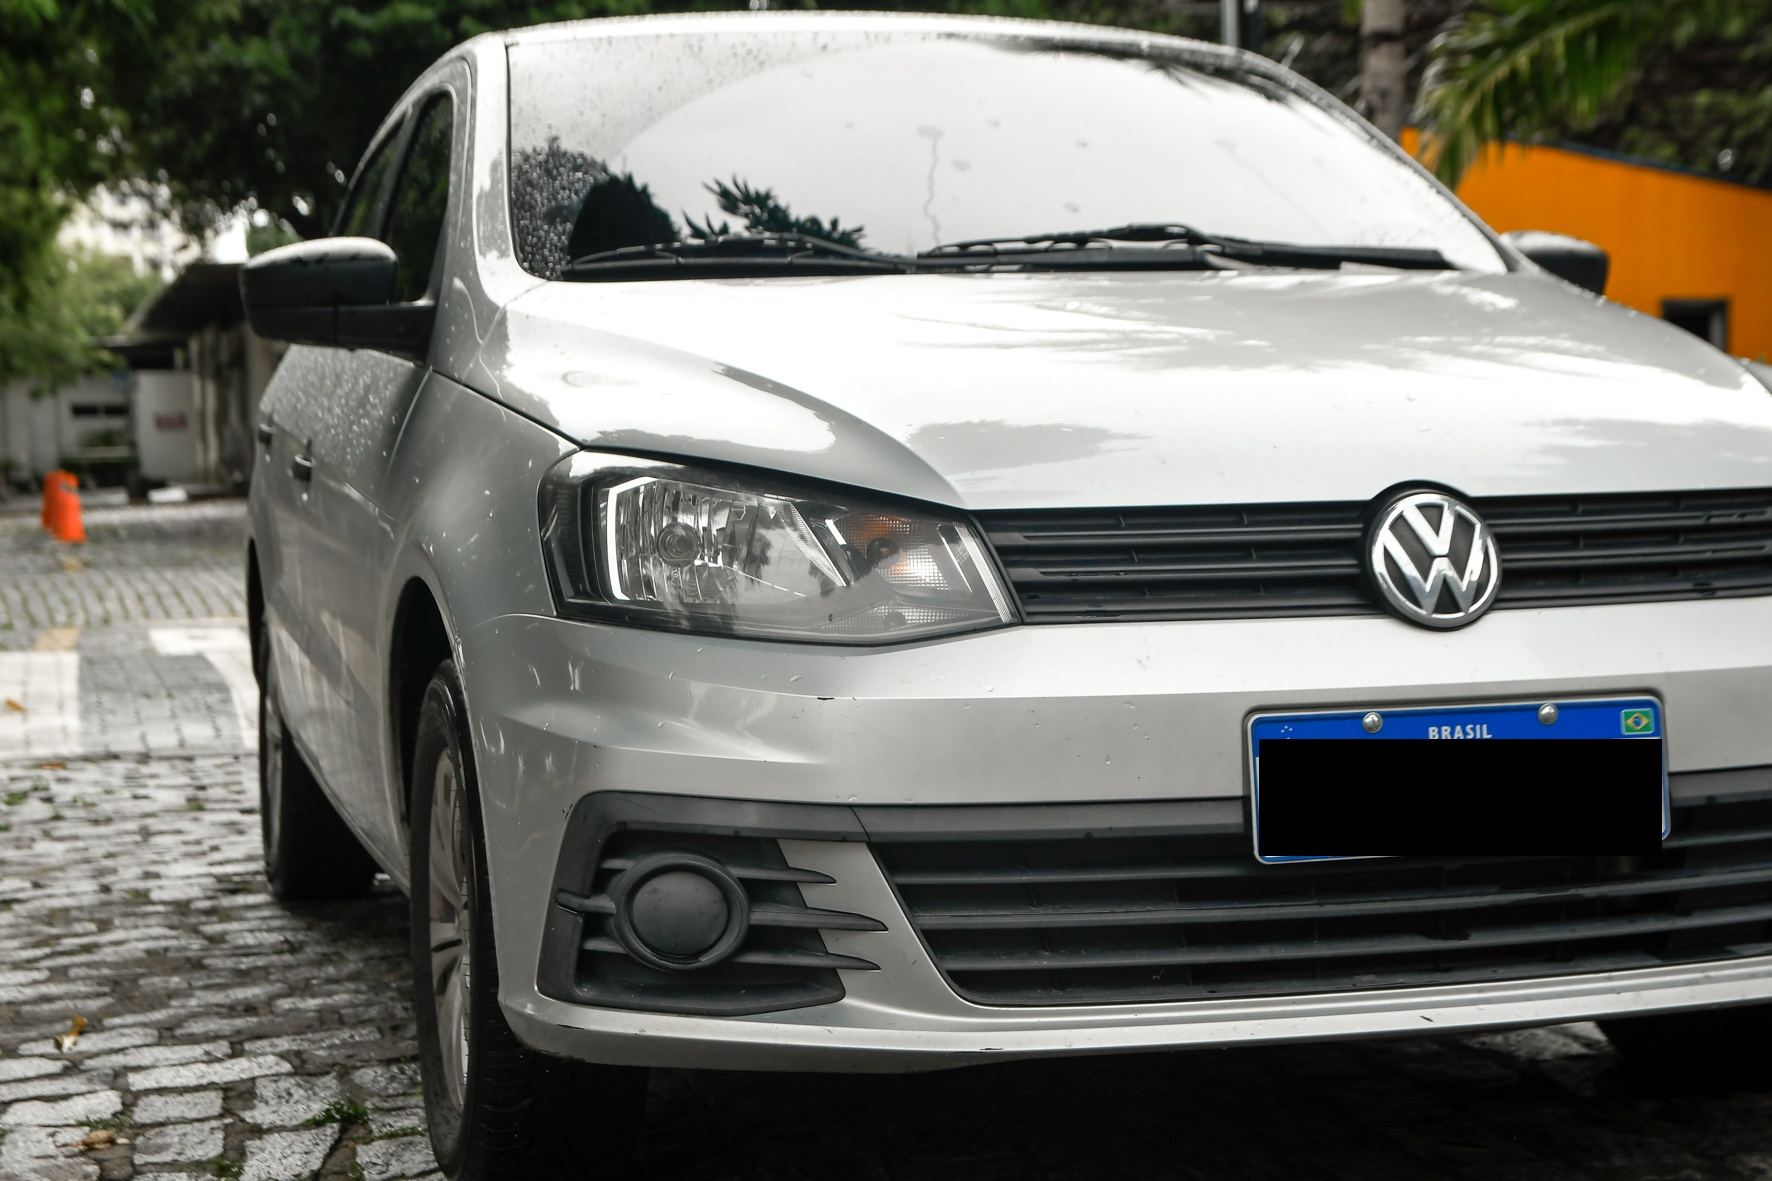
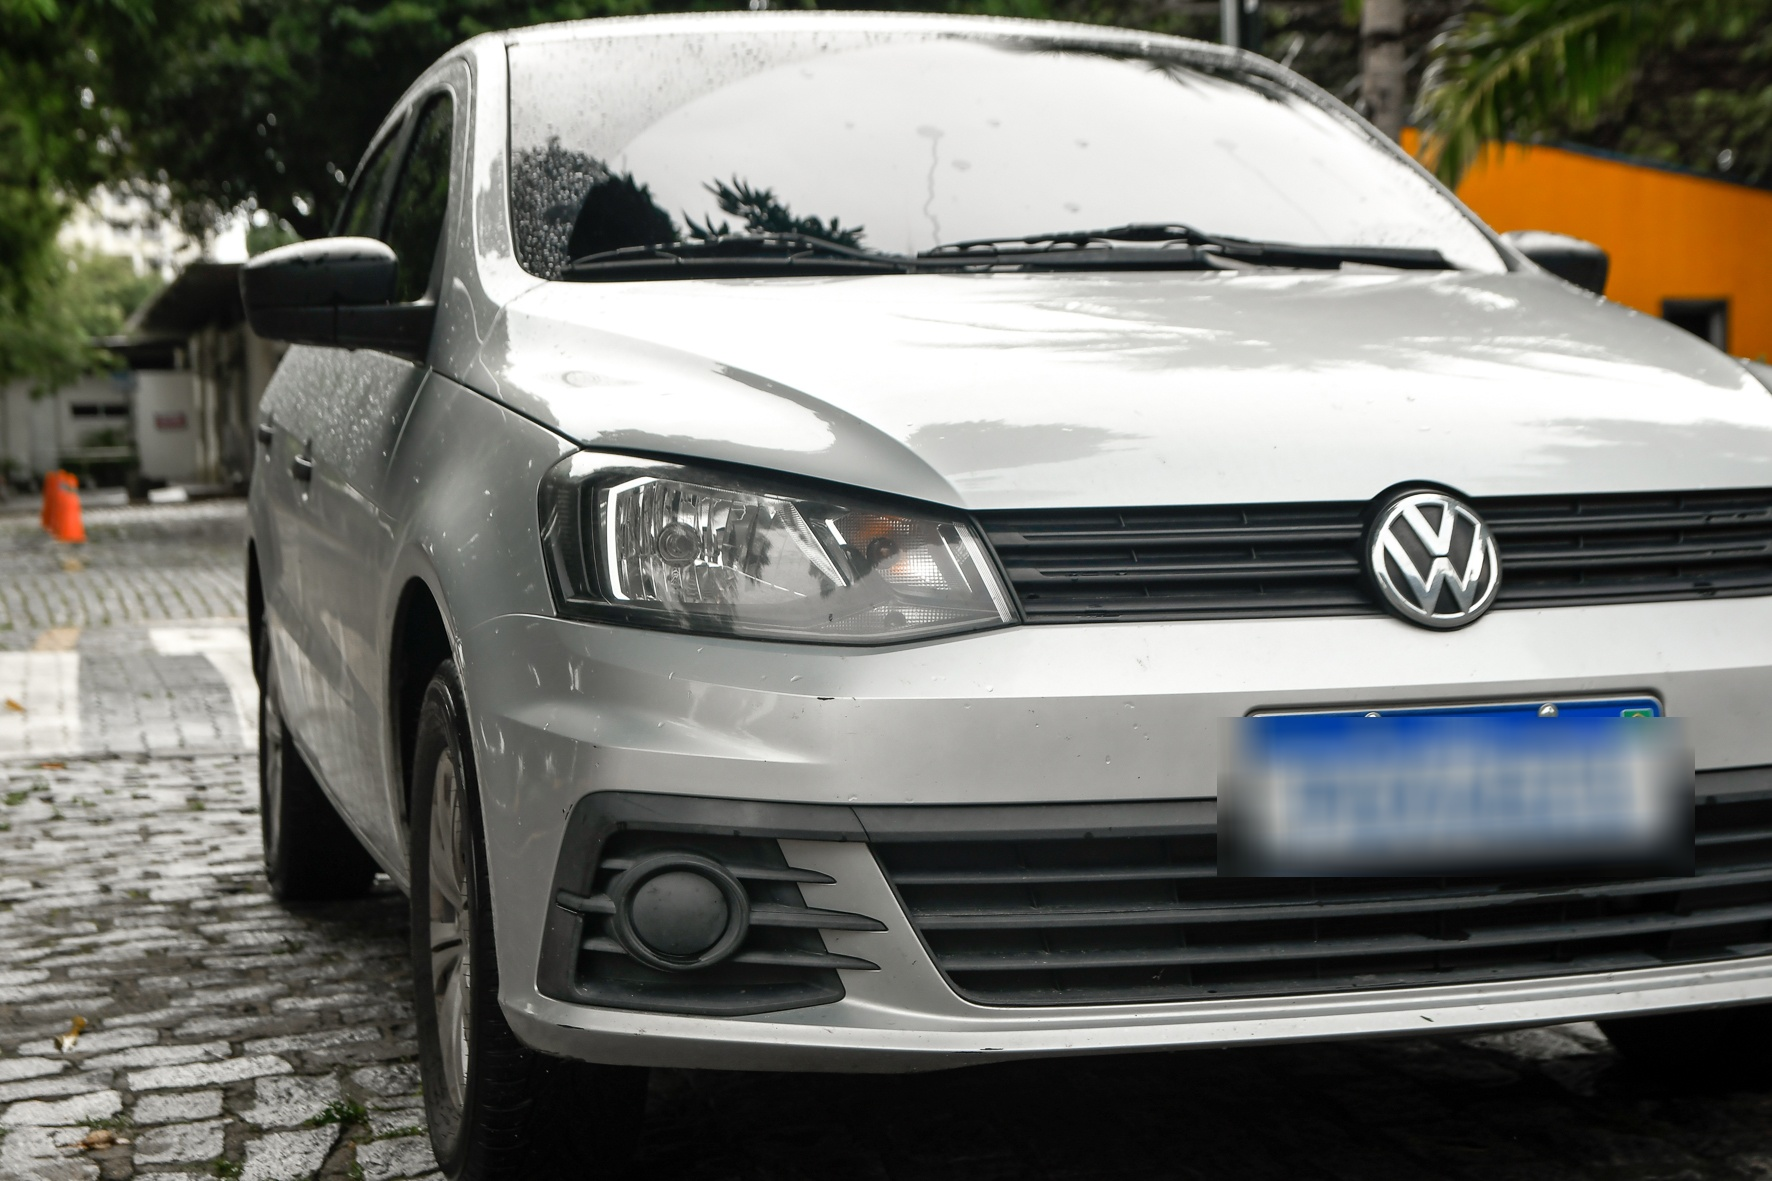
hide car plate version 2

Changed region(s): [[0.6828, 0.6097, 0.9622, 0.7621]]

diff --git a/usecases/hide_car_plate.py b/usecases/hide_car_plate.py
@@ -22,23 +22,12 @@ class HideCarPlate(ImageTransformer):
         return FileHelper.open_image(image_path=image_path)
 
     def _transform(self, image):
-        gray = cv2.cvtColor(image, cv2.COLOR_BGR2GRAY)
-        blur = cv2.GaussianBlur(gray, (5, 5), 0)
-        edged = cv2.Canny(blur, 30, 150)
-        contours, _ = cv2.findContours(edged, cv2.RETR_EXTERNAL, cv2.CHAIN_APPROX_SIMPLE)
-        for c in contours:
-            peri = cv2.arcLength(c, True)
-            approx = cv2.approxPolyDP(c, 0.02 * peri, True)
-            if len(approx) == 4:
-                x, y, w, h = cv2.boundingRect(approx)
-                aspect_ratio = w / h if h != 0 else 0 
-                if 3.2 < aspect_ratio < 3.5:
-                    print(aspect_ratio)
-                    cv2.rectangle(image, (x, y), (x + w, y + h), (0, 0, 0), -1)
-
+        placa_cascade = cv2.CascadeClassifier(cv2.data.haarcascades + "haarcascade_russian_plate_number.xml")
+        gray_image = cv2.cvtColor(image, cv2.COLOR_BGR2GRAY)
+        placas = placa_cascade.detectMultiScale(gray_image, scaleFactor=1.1, minNeighbors=5, minSize=(30, 30))
+        for (x, y, w, h) in placas:
+            image[y:y+h, x:x+w] = cv2.GaussianBlur(image[y:y+h, x:x+w], (51, 51), 30)
         return image
-
-
 
     def _save_image(self, file : File, image : any):
         FileHelper.save_image(file=file, image=image, sufix= 'hide_plate')
